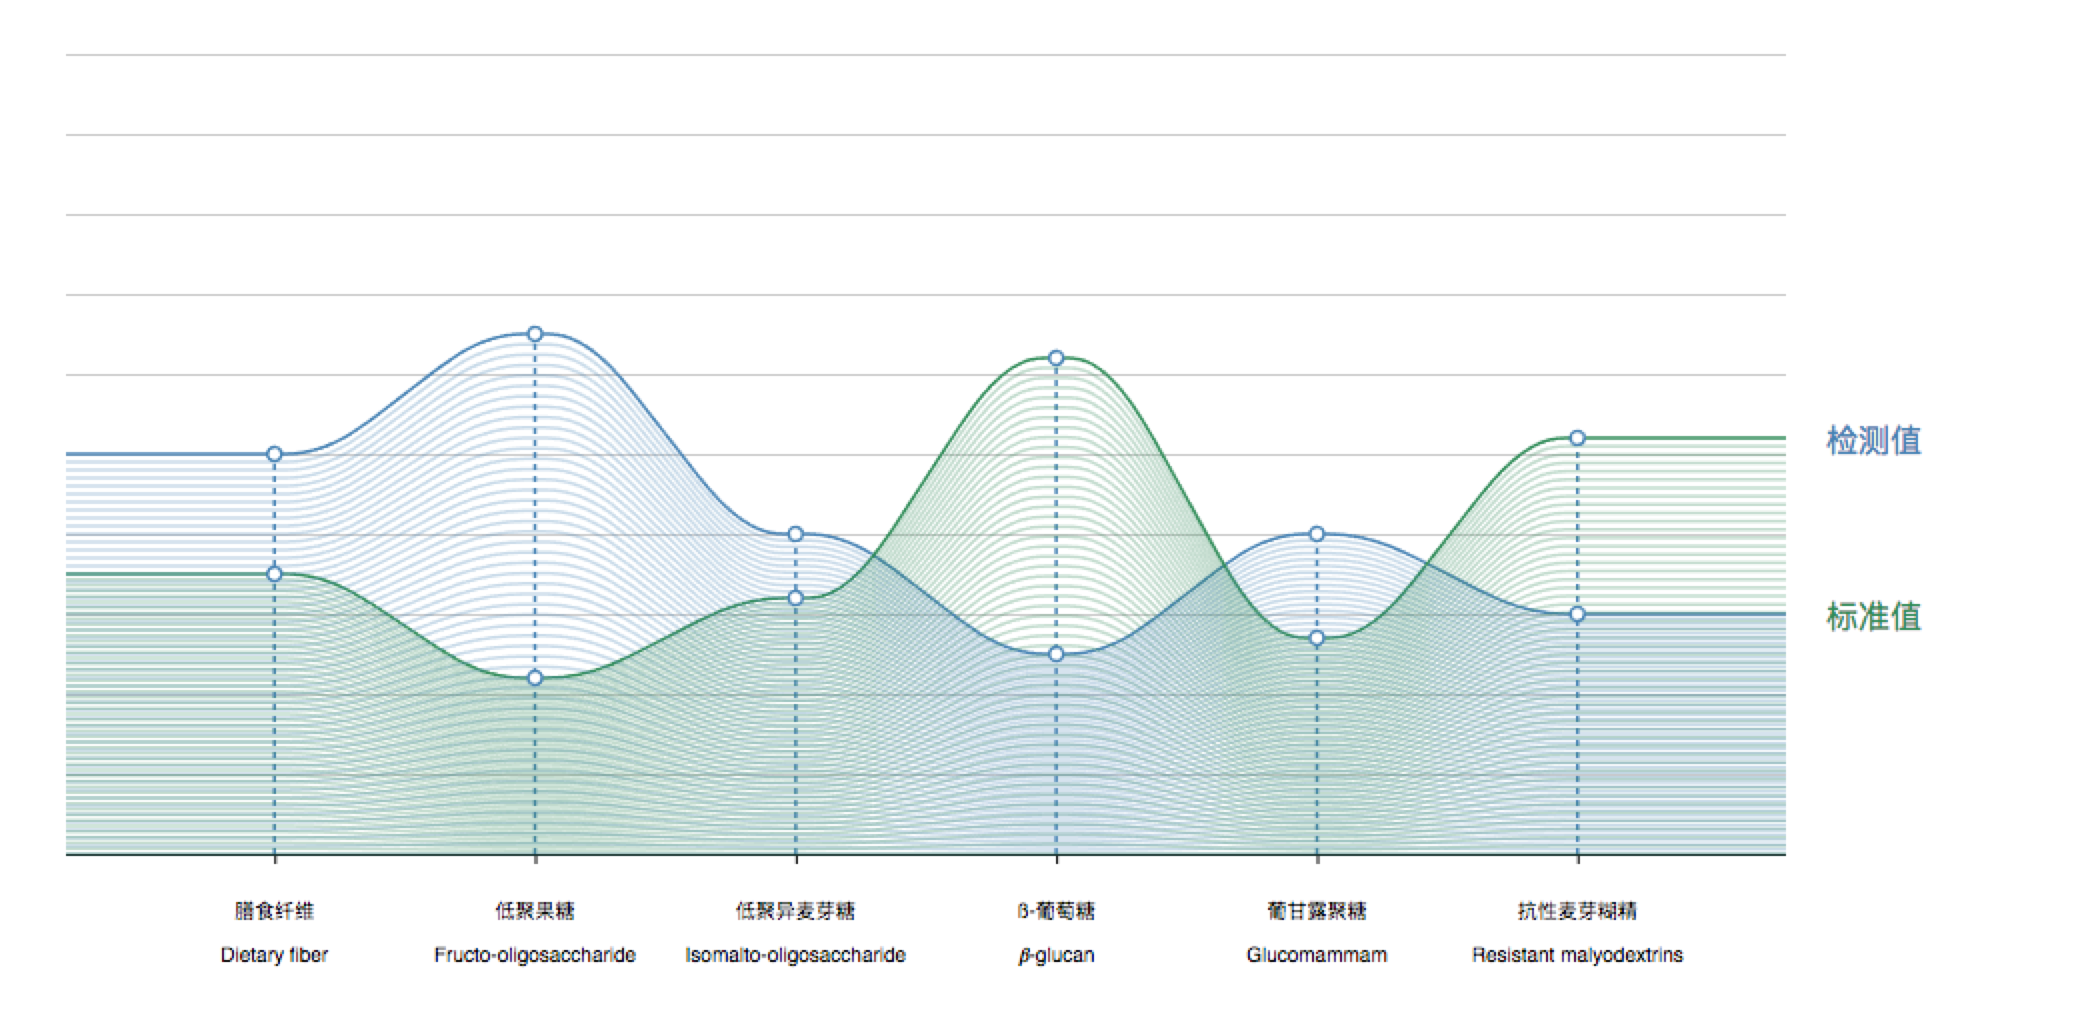
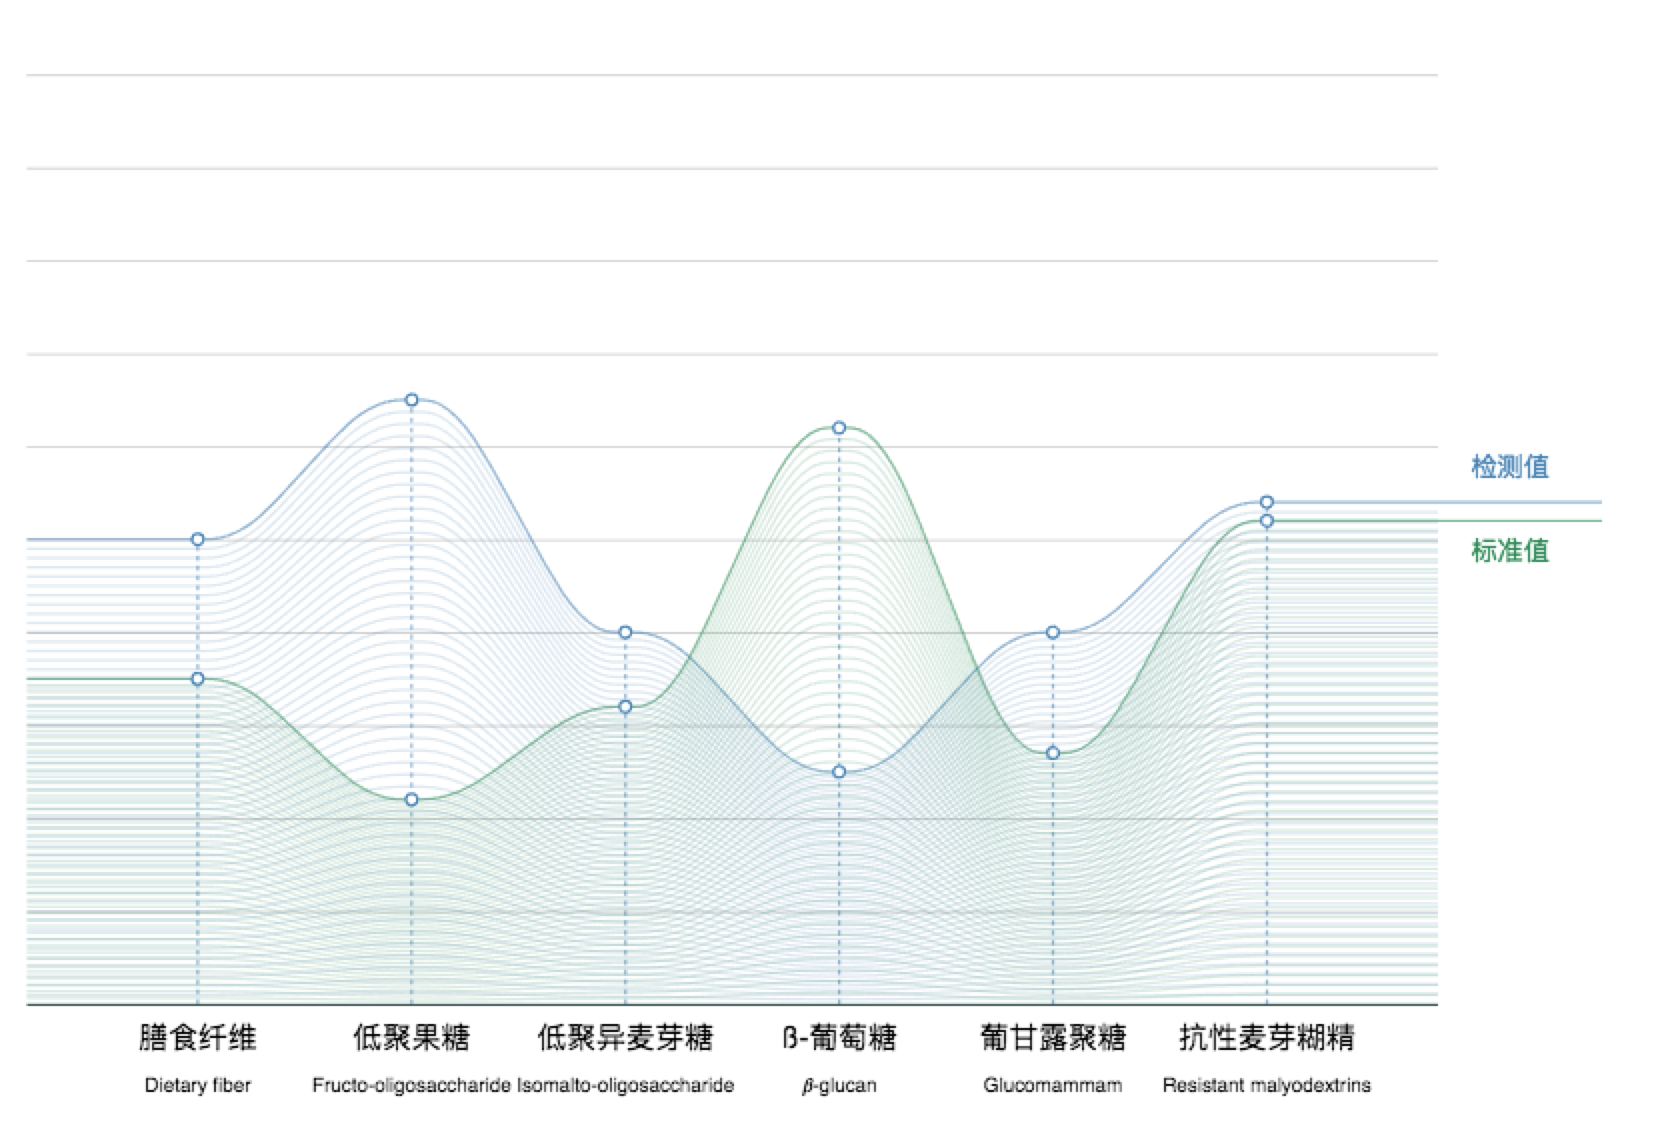
update docs images

Changed region(s): [[0.0, 0.3045, 0.9641, 0.9745]]

diff --git a/lib/guide-goodness.js b/lib/guide-goodness.js
@@ -309,15 +309,15 @@ export function linkGraph(parent, config) {
 
     // detect svg or canvas
     var svgNS = 'http://www.w3.org/2000/svg';
-    var svg = document.createElementNS('http://www.w3.org/2000/svg', 'svg');
+    var svg = document.createElementNS(svgNS, 'svg');
     svg.setAttribute('width', '800')
     svg.setAttribute('id', 'curveGraph')
     svg.setAttribute('height', '1500')
 
     parent.append(svg)
 
-    var svg = d3.select('svg#curveGraph'),
-        width = +svg.attr('width') - margin.left - margin.right - 100,
+    svg = d3.select('#' + parent.id + ' svg');
+    let width = +svg.attr('width') - margin.left - margin.right - 100,
         height = +svg.attr('height') - margin.top - margin.bottom,
         g = svg.append('g').attr('transform', 'translate(' + margin.left + ',' + margin.top + ')');
 
@@ -370,7 +370,7 @@ export function linkGraph(parent, config) {
                 var seperation = 0;
 
                 if (i > 21) {
-                    seperation = 28
+                    seperation = 0
                 }
                 return 'translate(' + d.x + ',' + (d.y = yR(i - 16) + seperation) + ')';
             }
